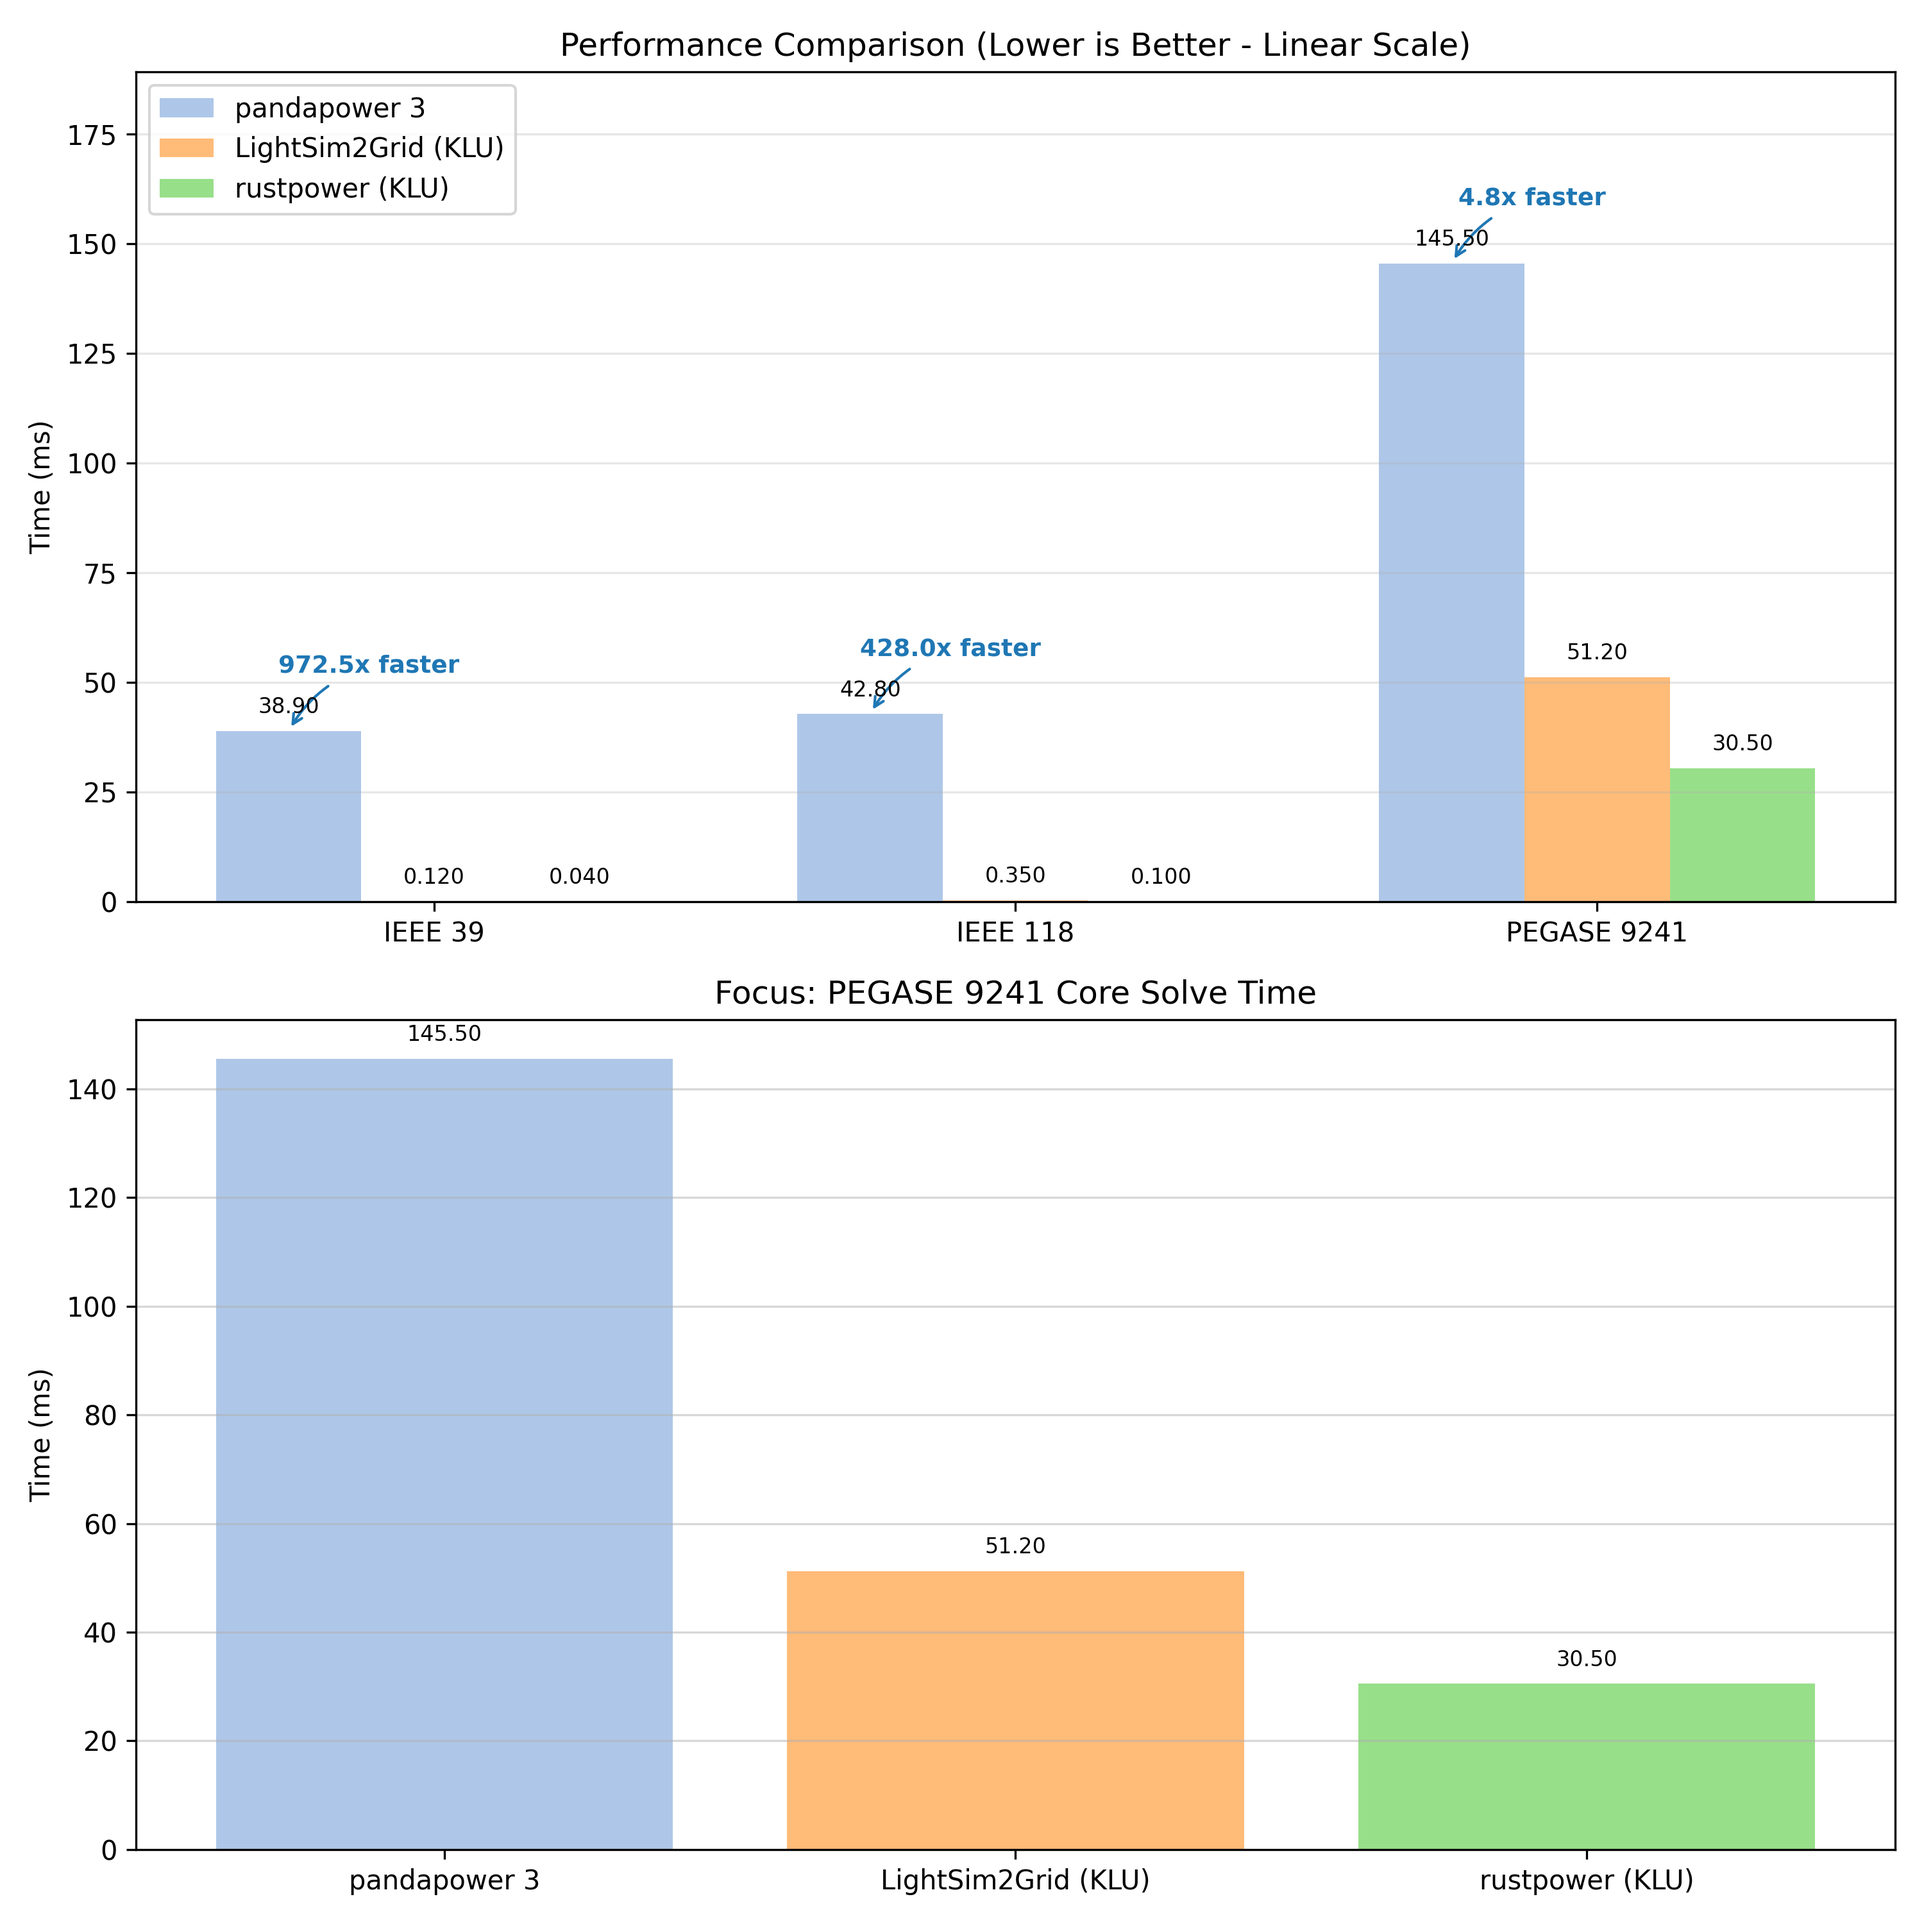
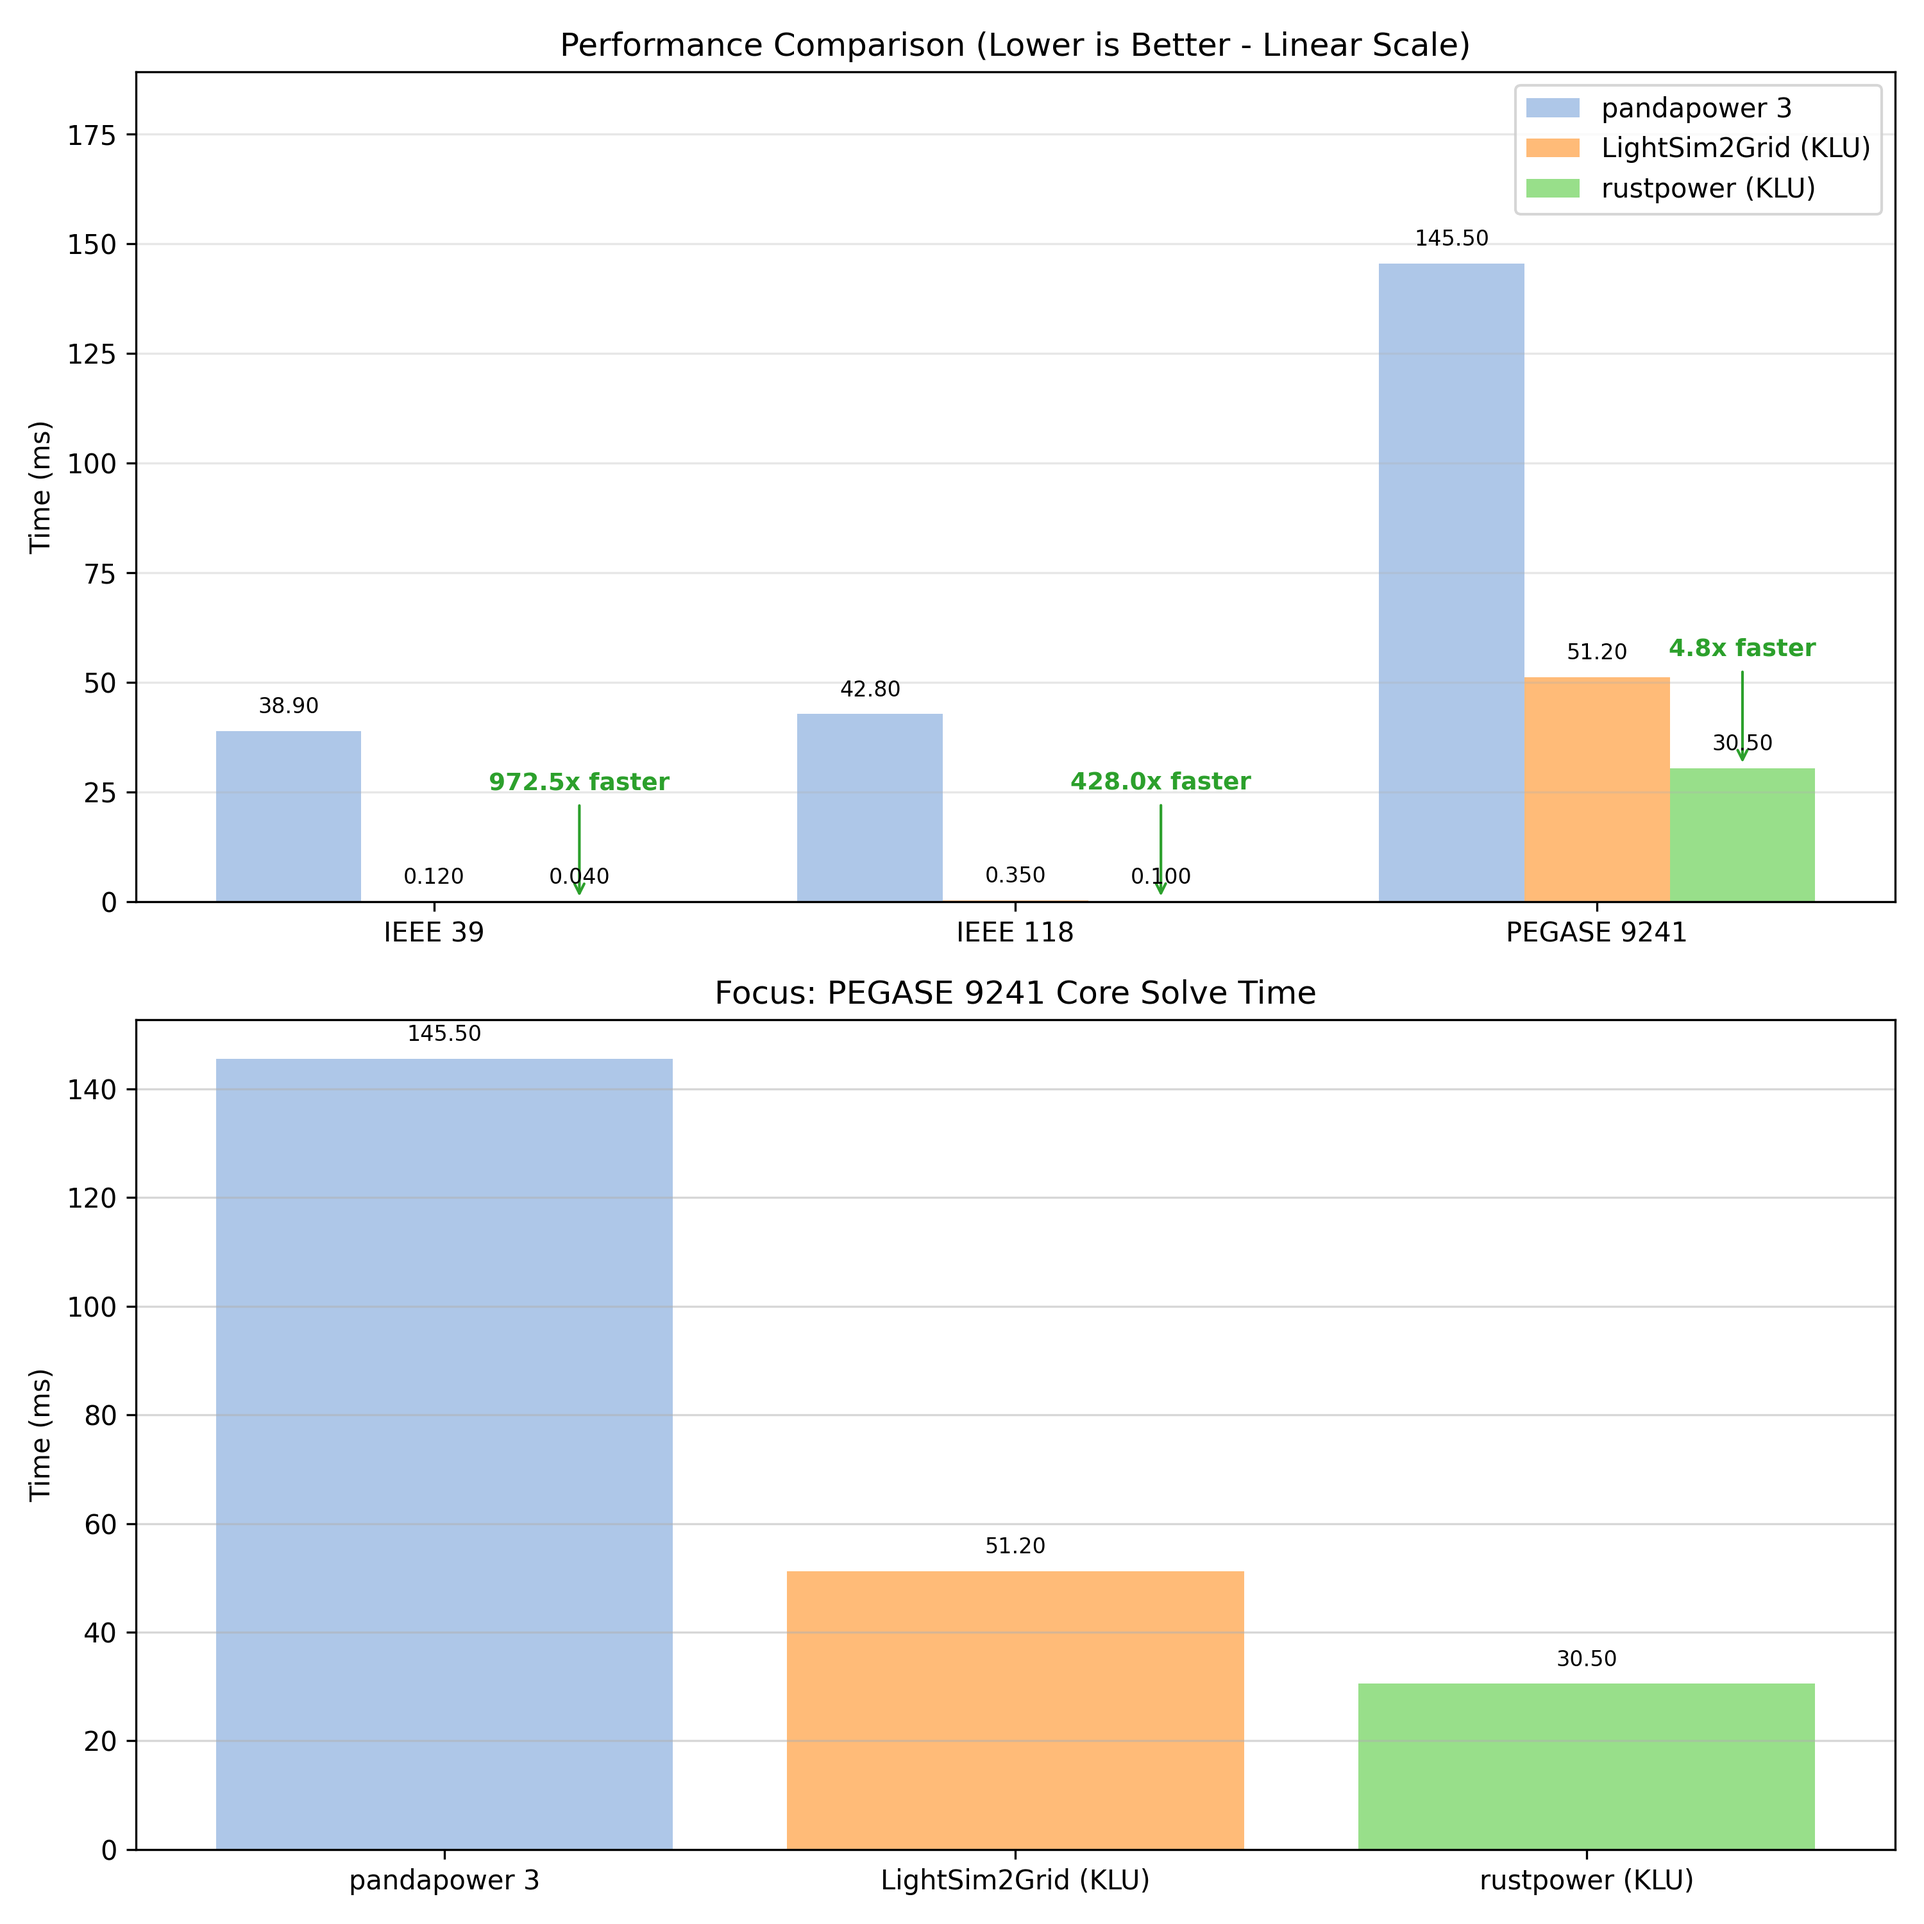
feat: improve speedup annotations in performance comparison plot for clarity

diff --git a/scripts/plot_bench.py b/scripts/plot_bench.py
@@ -30,12 +30,12 @@ ax1.set_ylim(0, y_max)
 
 for i in range(len(cases)):
     speedup = pandapower_times[i] / rustpower_times[i]
-    # Place above the pandapower bar for clear context
+    # Point to the rustpower bar (x[i] + width)
     ax1.annotate(f'{speedup:.1f}x faster',
-                 xy=(x[i] - width, pandapower_times[i]),
-                 xytext=(30, 20), textcoords="offset points",
-                 arrowprops=dict(arrowstyle="->", connectionstyle="arc3,rad=.2", color='#1f77b4'),
-                 ha='center', va='bottom', color='#1f77b4', fontweight='bold', fontsize=9)
+                 xy=(x[i] + width, rustpower_times[i]),
+                 xytext=(0, 40), textcoords="offset points",
+                 arrowprops=dict(arrowstyle="->", connectionstyle="arc3,rad=0", color='#2ca02c'),
+                 ha='center', va='bottom', color='#2ca02c', fontweight='bold', fontsize=9)
 
 # Focus on PEGASE 9241 (Linear Scale)
 case_idx = 2
